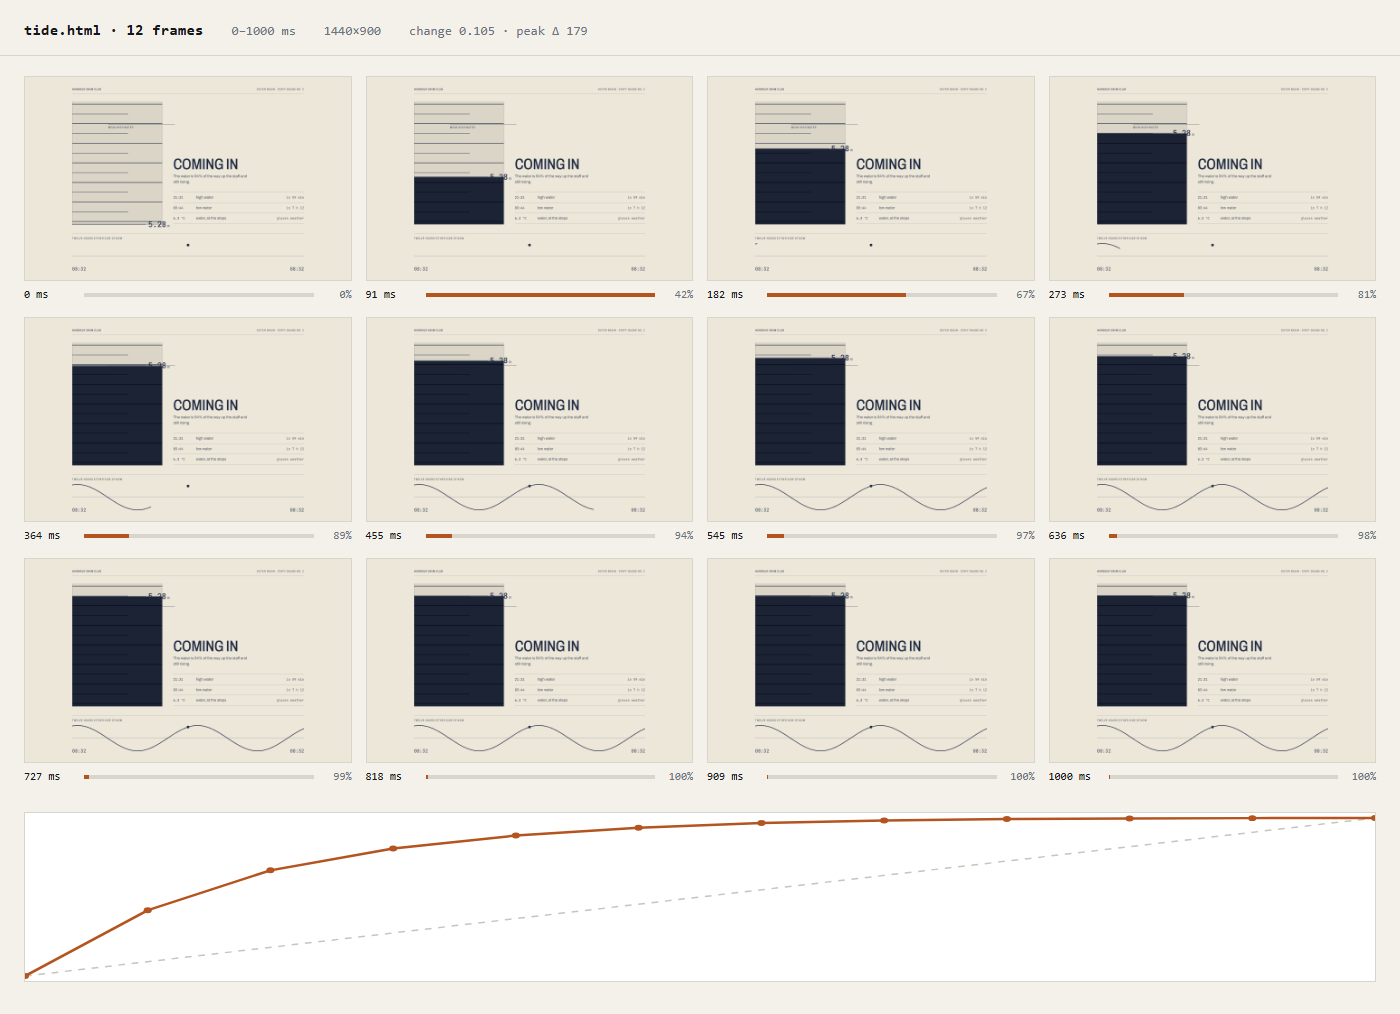
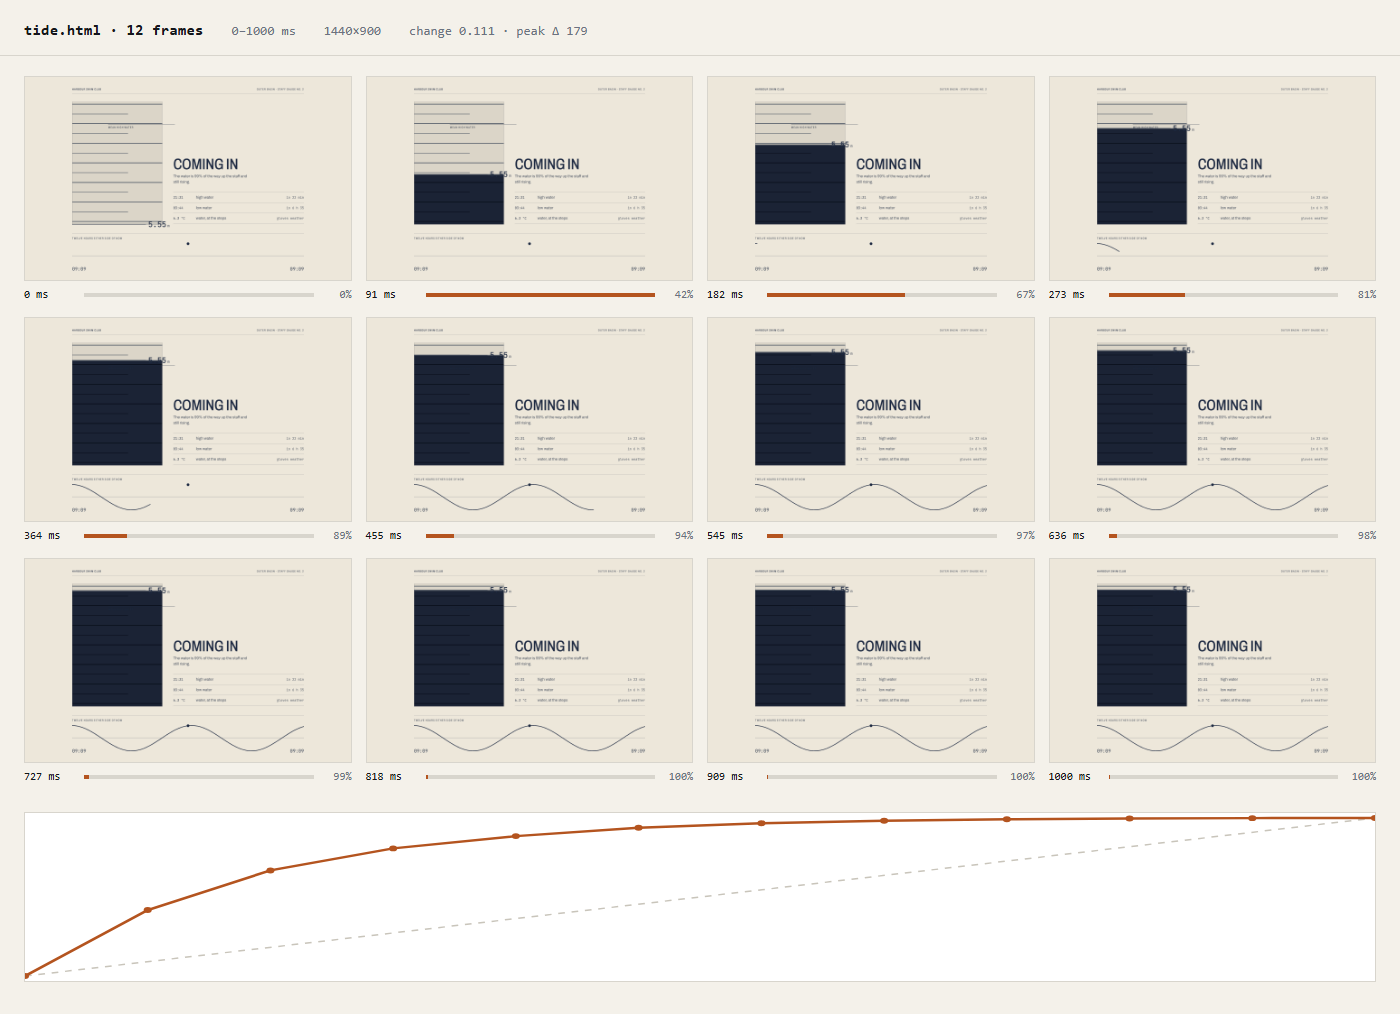
Measure the page at rest, and the parts that hang off the edge
A text run with a negative left was refused and reported as "could not be
measured" — a warning that looks like nothing and is a hole. It was the
biggest word on a shipped social post, and measured, it fails: the orange was
chosen against the paper swatch at 3.1:1, but the grain layer and the blue
ghost pull the paper under that word to #e4dcca, where the same ink reads
2.72:1. A colour chosen against its swatch is chosen against a ground that
exists nowhere on the page.

Two screenshots of a page that is still moving are two screenshots of two
pages. An animation on width reflowed the document between them, so the pair
came back at different heights and any run past the shorter one was measured
against cleared canvas — opaque black, 1.11:1, on a page with nothing black
on it. Finite animations are now finished before the pair is taken, since
their settled state is the design; endless ones are paused; and the sampled
region is the intersection of the two shots. The audit's own suite had been
failing about one run in three from this, and is deterministic now.

A tap target is in a sentence whether it is inline or inline-block. And the
tide example's unit labels were 0.5em of a number that clamps to its floor on
a phone, which is 10.8px — a size nobody chose, arrived at by multiplication.

diff --git a/skills/design-fields/examples/harbor-swim-club-tide/tide.html b/skills/design-fields/examples/harbor-swim-club-tide/tide.html
@@ -76,7 +76,7 @@
   .m { position: absolute; left: 0; width: 62%; height: 2px; background: color-mix(in oklab, var(--ink) 78%, transparent) }
   .m.metre { width: 100%; height: 3px }
   .m span { position: absolute; right: -0.15rem; top: 0.42rem; transform: translateX(100%);
-            font: 500 clamp(0.7rem, 1.4vw, 0.85rem)/1 'JetBrains Mono', ui-monospace, monospace;
+            font: 500 clamp(0.75rem, 1.4vw, 0.85rem)/1 'JetBrains Mono', ui-monospace, monospace;
             font-variant-numeric: tabular-nums; color: color-mix(in oklab, var(--ink) 80%, transparent) }
 
   /* The sea. A hard gradient stop is a real waterline that can be animated, and multiply lets the
@@ -103,7 +103,9 @@
   .datum .lead { flex: 1; height: 1px; background: var(--ink) }
   .datum b { font: 500 clamp(1.35rem, 3.4vw, 2.1rem)/1 'JetBrains Mono', ui-monospace, monospace;
              font-variant-numeric: tabular-nums; white-space: nowrap }
-  .datum b i { font-style: normal; font-size: 0.5em; color: var(--faint); padding-left: 0.25em }
+  /* Half the number, but never below 12px: on a phone the number clamps to its floor and half
+     of that floor is 10.8px, which is a size nobody chose. */
+  .datum b i { font-style: normal; font-size: max(0.5em, 0.75rem); color: var(--faint); padding-left: 0.25em }
 
   .mhw { position: absolute; left: 40%; right: -14%; bottom: 78%; border-top: 1px solid var(--ink);
          padding-top: 0.35rem; pointer-events: none; color: var(--faint) }

diff --git a/skills/design-fields/examples/night-market-social/series.css b/skills/design-fields/examples/night-market-social/series.css
@@ -6,7 +6,11 @@
 
 :root {
   --paper: #f2e9d6;
-  --orange: #ef4a0f;     /* the poster's fluorescent ink one step deeper: the screen cannot fluoresce, and at #ff5a1f the word was 2.6:1 on this paper; this is 3.1:1 */
+  --orange: #d63f0b;     /* the poster's fluorescent ink two steps deeper. The screen cannot fluoresce, and the
+                            number that matters is measured on the PAINTED ground, not the declared one: the grain
+                            layer and the blue ghost pull the paper under this word to #e4dcca, where #ff5a1f read
+                            2.3:1 and #ef4a0f — which measured 3.1:1 against the paper swatch — read 2.72:1. This
+                            is 3.36:1 where the word actually sits, and 3.80:1 on bare paper. */
   --orange-ink: #c8420f; /* the same ink pressed harder — 4.1:1 on the paper, so the times and the price read */
   --blue: #1a3a6b;
   --word: "Big Shoulders Display", "Arial Narrow", sans-serif;

diff --git a/CHANGELOG.md b/CHANGELOG.md
@@ -5,6 +5,38 @@ The version is `package.json`'s and is tagged `vX.Y.Z` on `main`. Every install 
 is what a machine gained between two starts. Bump the version and add the entry in the same
 commit — a test holds them together.
 
+## 1.24.0 — 2026-09-02
+
+The audit measures the page at rest, and measures the parts of it that hang off the edge.
+
+- **A headline that bleeds off the canvas is measured, not excused.** Any run with a negative
+  left was refused outright and reported as "could not be measured" — a warning that looks like
+  nothing and is a hole. It was the biggest word on a shipped social post, and measured, it
+  failed. The run is clamped to the canvas now.
+- **Contrast is measured on the design at rest.** Two screenshots of a page that is still moving
+  are two screenshots of two pages: an animation on `width` reflowed the document between them,
+  the pair came back at different heights, and any run past the shorter one was measured against
+  cleared canvas — read as opaque black, reported at 1.11:1, on a page with nothing black on it.
+  Finite animations are finished (their settled state *is* the design), endless ones paused, and
+  the sampled region is the intersection of the two shots. This also made the audit's own test
+  suite deterministic; it had been failing about one run in three.
+- **A tap target is in a sentence whether it is `inline` or `inline-block`.** A link styled
+  inline-block for its underline offset is still a link in a sentence, which is the case WCAG
+  exempts.
+
+**Two shipped examples were wrong, and the sharper audit is what found them.**
+
+- *Night Market* chose its orange against the paper swatch — 3.1:1, comfortably over the 3:1
+  large-text bar. But the grain layer and the blue ghost pull the paper under that word to
+  `#e4dcca`, where the same ink reads **2.72:1**. The word's ink is two steps deeper now:
+  3.36:1 where it actually sits. A colour chosen against its swatch is a colour chosen against a
+  ground that exists nowhere on the page.
+- *Tide* set a unit label at `0.5em` of a number that clamps to its floor on a phone — 10.8px, a
+  size nobody chose, arrived at by multiplication — and floored its gauge scale at 11.2px. Both
+  now hold 12px at the bottom and are untouched everywhere the viewport is wide enough to matter.
+
+Both reviews carry the new pass: the loop is the deliverable, not just the file.
+
 ## 1.23.0 — 2026-09-02
 
 Every design this package ships as a reference now passes the gates this package ships. Five of

diff --git a/skills/design-fields/examples/night-market-social/review.md b/skills/design-fields/examples/night-market-social/review.md
@@ -43,3 +43,23 @@ variable, which is what makes it a series.
 **Considered and not made:** a drawn steam plume behind the word, as on the poster. In a feed
 at a thumb's distance it would be texture over the one thing that has to read. The loop ends
 here.
+
+## Pass 4 — the ground the reader sees
+
+The audit learned to measure a run that bleeds off the canvas. The word does exactly that, so
+until now the biggest thing on the piece came back "could not be measured" — a warning that
+looks like nothing and is a hole. Measured, it fails: **2.72:1**.
+
+Pass 1 chose `#ef4a0f` because it read 3.1:1 *against the paper swatch*. But the paper under
+this word is not the swatch. The grain layer sits over everything and the blue ghost multiplies
+into it, and the ground the word actually stands on is `#e4dcca` — a hair darker, and the hair
+is the whole margin. The declared number passed; the reader's number did not.
+
+**Change.** The word's ink two steps deeper, `#d63f0b`: 3.36:1 where the word sits and 3.80:1
+on bare paper, so it clears the bar on the ground it is actually printed on rather than on the
+one named in the token. It is still the hot ink; the ghost, the crop and the board are
+untouched. All three posts pass at 1080 × 1350 with no failures and no warnings.
+
+The lesson generalises past this piece: a colour chosen against its swatch is a colour chosen
+against a ground that does not exist anywhere on the page. Anything laid over it — grain, a
+scrim, a blend, an opacity — moves the number, and only the pixels know by how much.

diff --git a/skills/design-fields/examples/harbor-swim-club-tide/review.md b/skills/design-fields/examples/harbor-swim-club-tide/review.md
@@ -120,3 +120,23 @@ moved from 19 to 18 with no change to the design, which is the number becoming h
 the piece becoming worse.
 
 `cgc check tide.html` → **every gate clean**, and the board is unchanged to look at.
+
+## Pass 7 — the sizes the phone actually renders
+
+Two things the audit named once it was measuring the phone properly, both the same mistake:
+a size written as a ratio, checked at the size the desktop happens to produce.
+
+**The unit beside each number** was `0.5em` of a number set in `clamp(1.35rem, 3.4vw, 2.1rem)`.
+On a 390px phone the clamp sits on its 21.6px floor, so half of it is **10.8px** — a size nobody
+chose, arrived at by multiplication. It is now `max(0.5em, 0.75rem)`: still half the number
+everywhere the number is large, and never below 12px.
+
+**The staff-gauge scale** floored at `0.7rem` — 11.2px, and these are the labels that say what
+the drawing means. Floor raised to `0.75rem`. Nothing above the floor moved: on any viewport
+wide enough for the `vw` term to win, both are exactly as they were.
+
+**The footer link** stopped being reported: it is an inline-block link inside a sentence, which
+is the case WCAG exempts, and the audit was reading only `display: inline` as "in a sentence".
+That was the tool's error, not the page's.
+
+No failures and no warnings at 1440 × 900 or 390 × 844.
